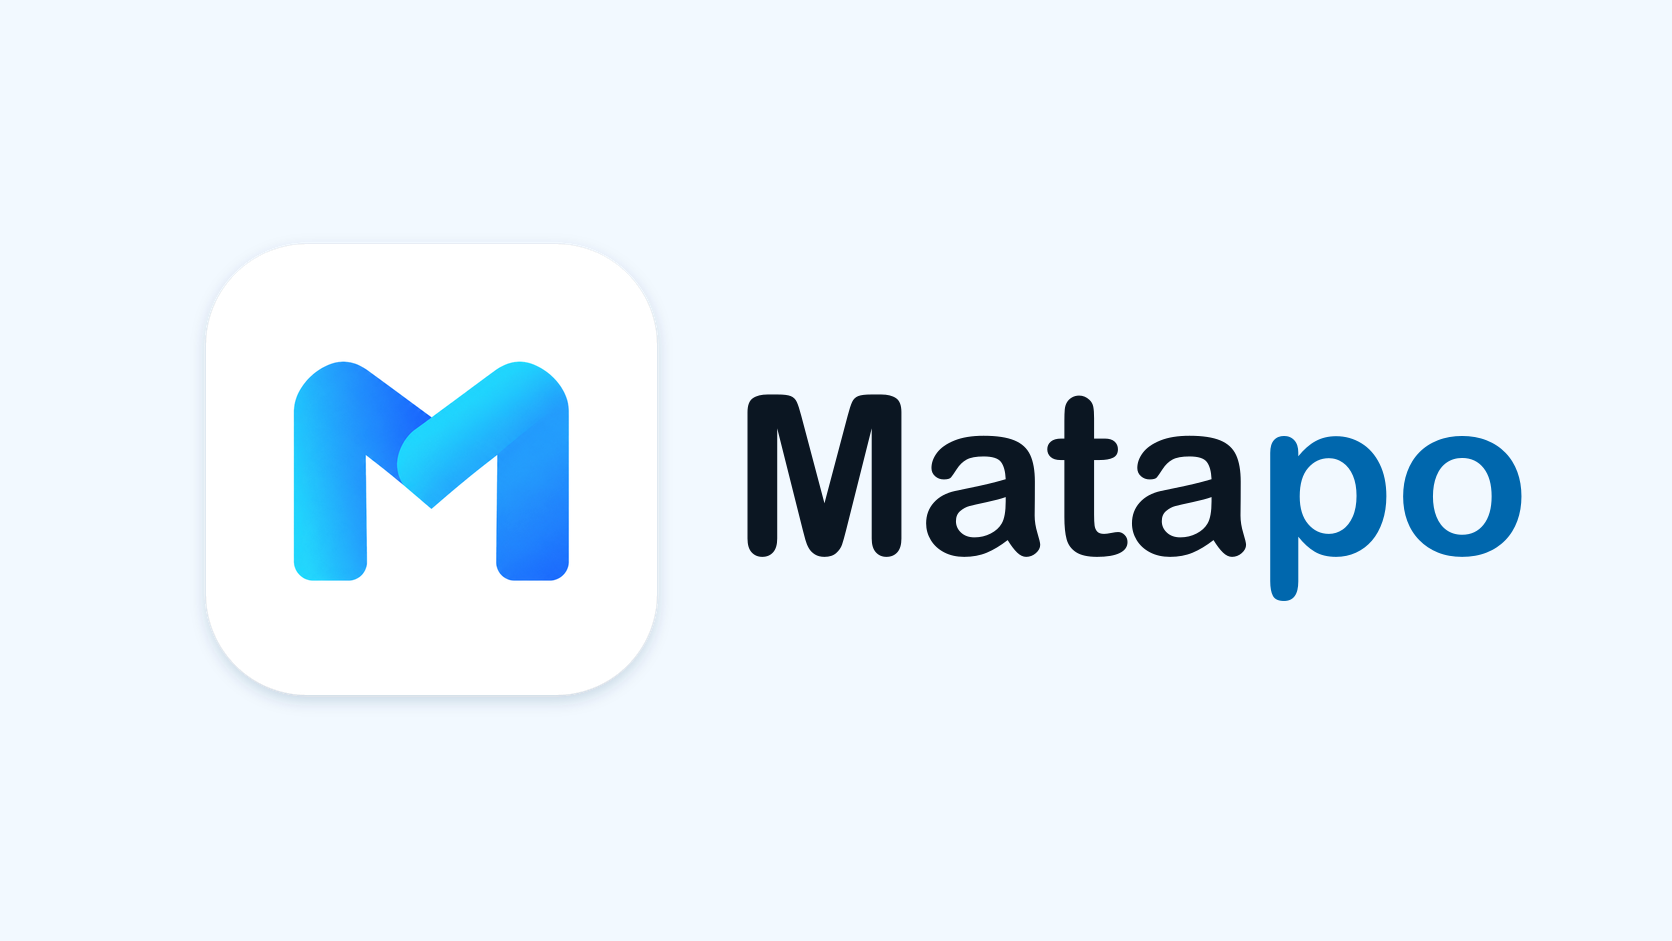
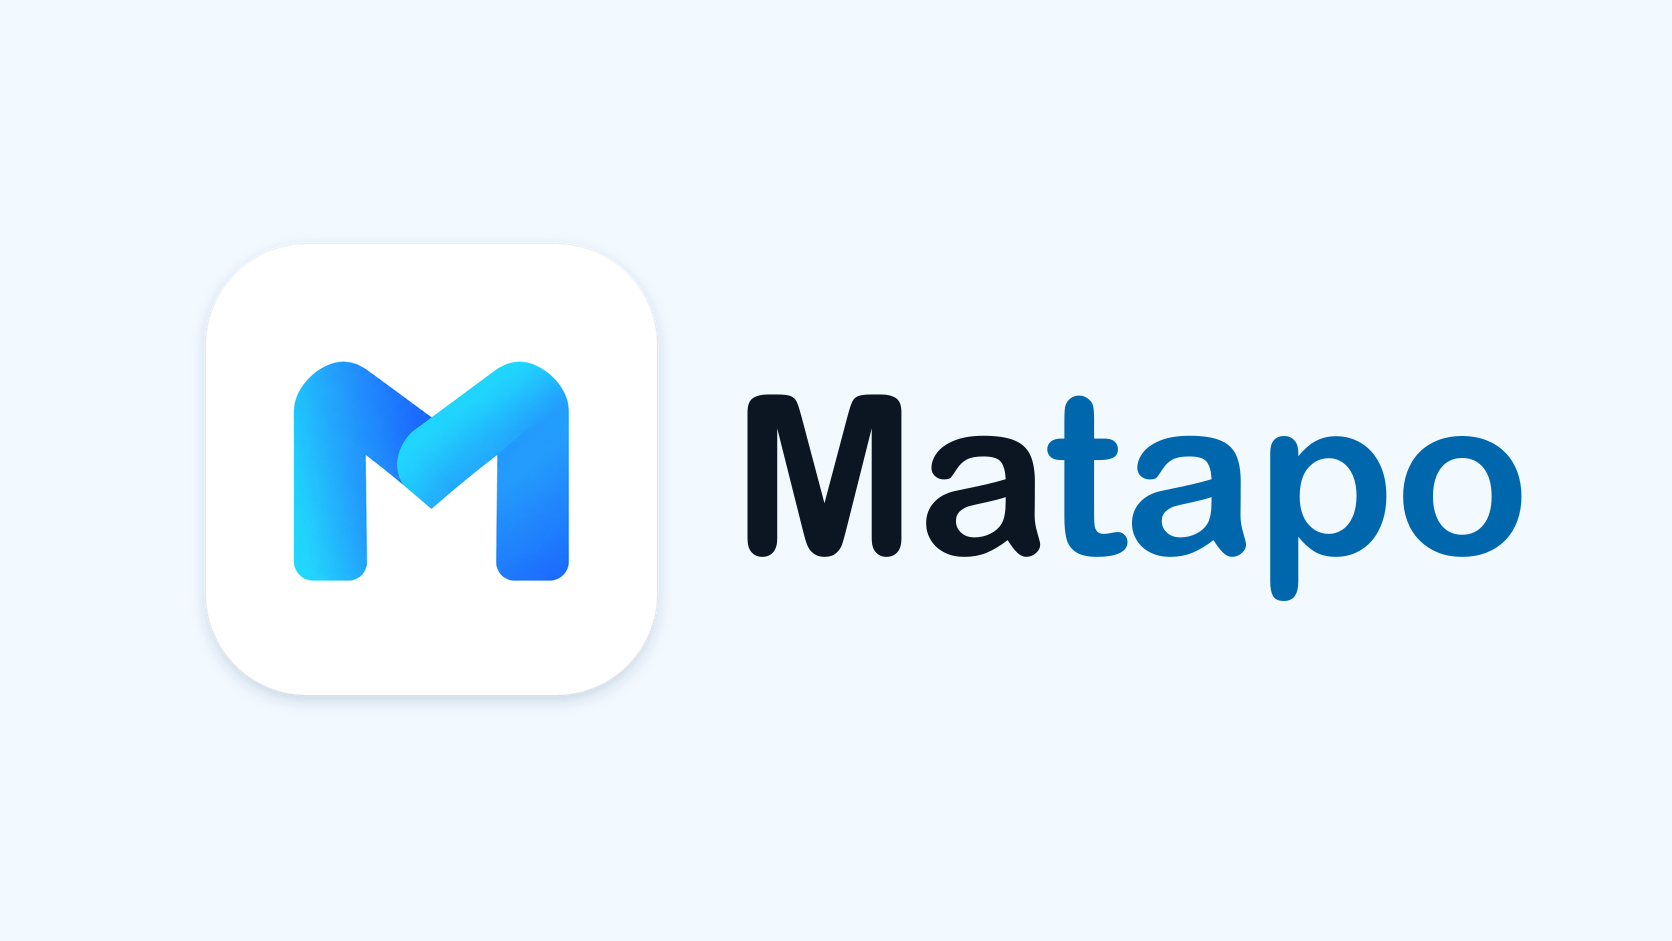
Color the "tapo" part of the Matapo wordmark in the header and OG image

Changed region(s): [[0.622, 0.4006, 0.7464, 0.6164]]

diff --git a/src/App.tsx b/src/App.tsx
@@ -235,7 +235,7 @@ function Header() {
         <a className="brand" href="#top" aria-label="Matapo, ir al inicio">
           <img src="/brand/matapo-icon.webp" alt="" width="36" height="36" />
           <span>
-            Mata<b>po</b>
+            Ma<b>tapo</b>
           </span>
         </a>
         <nav aria-label="Principal">
